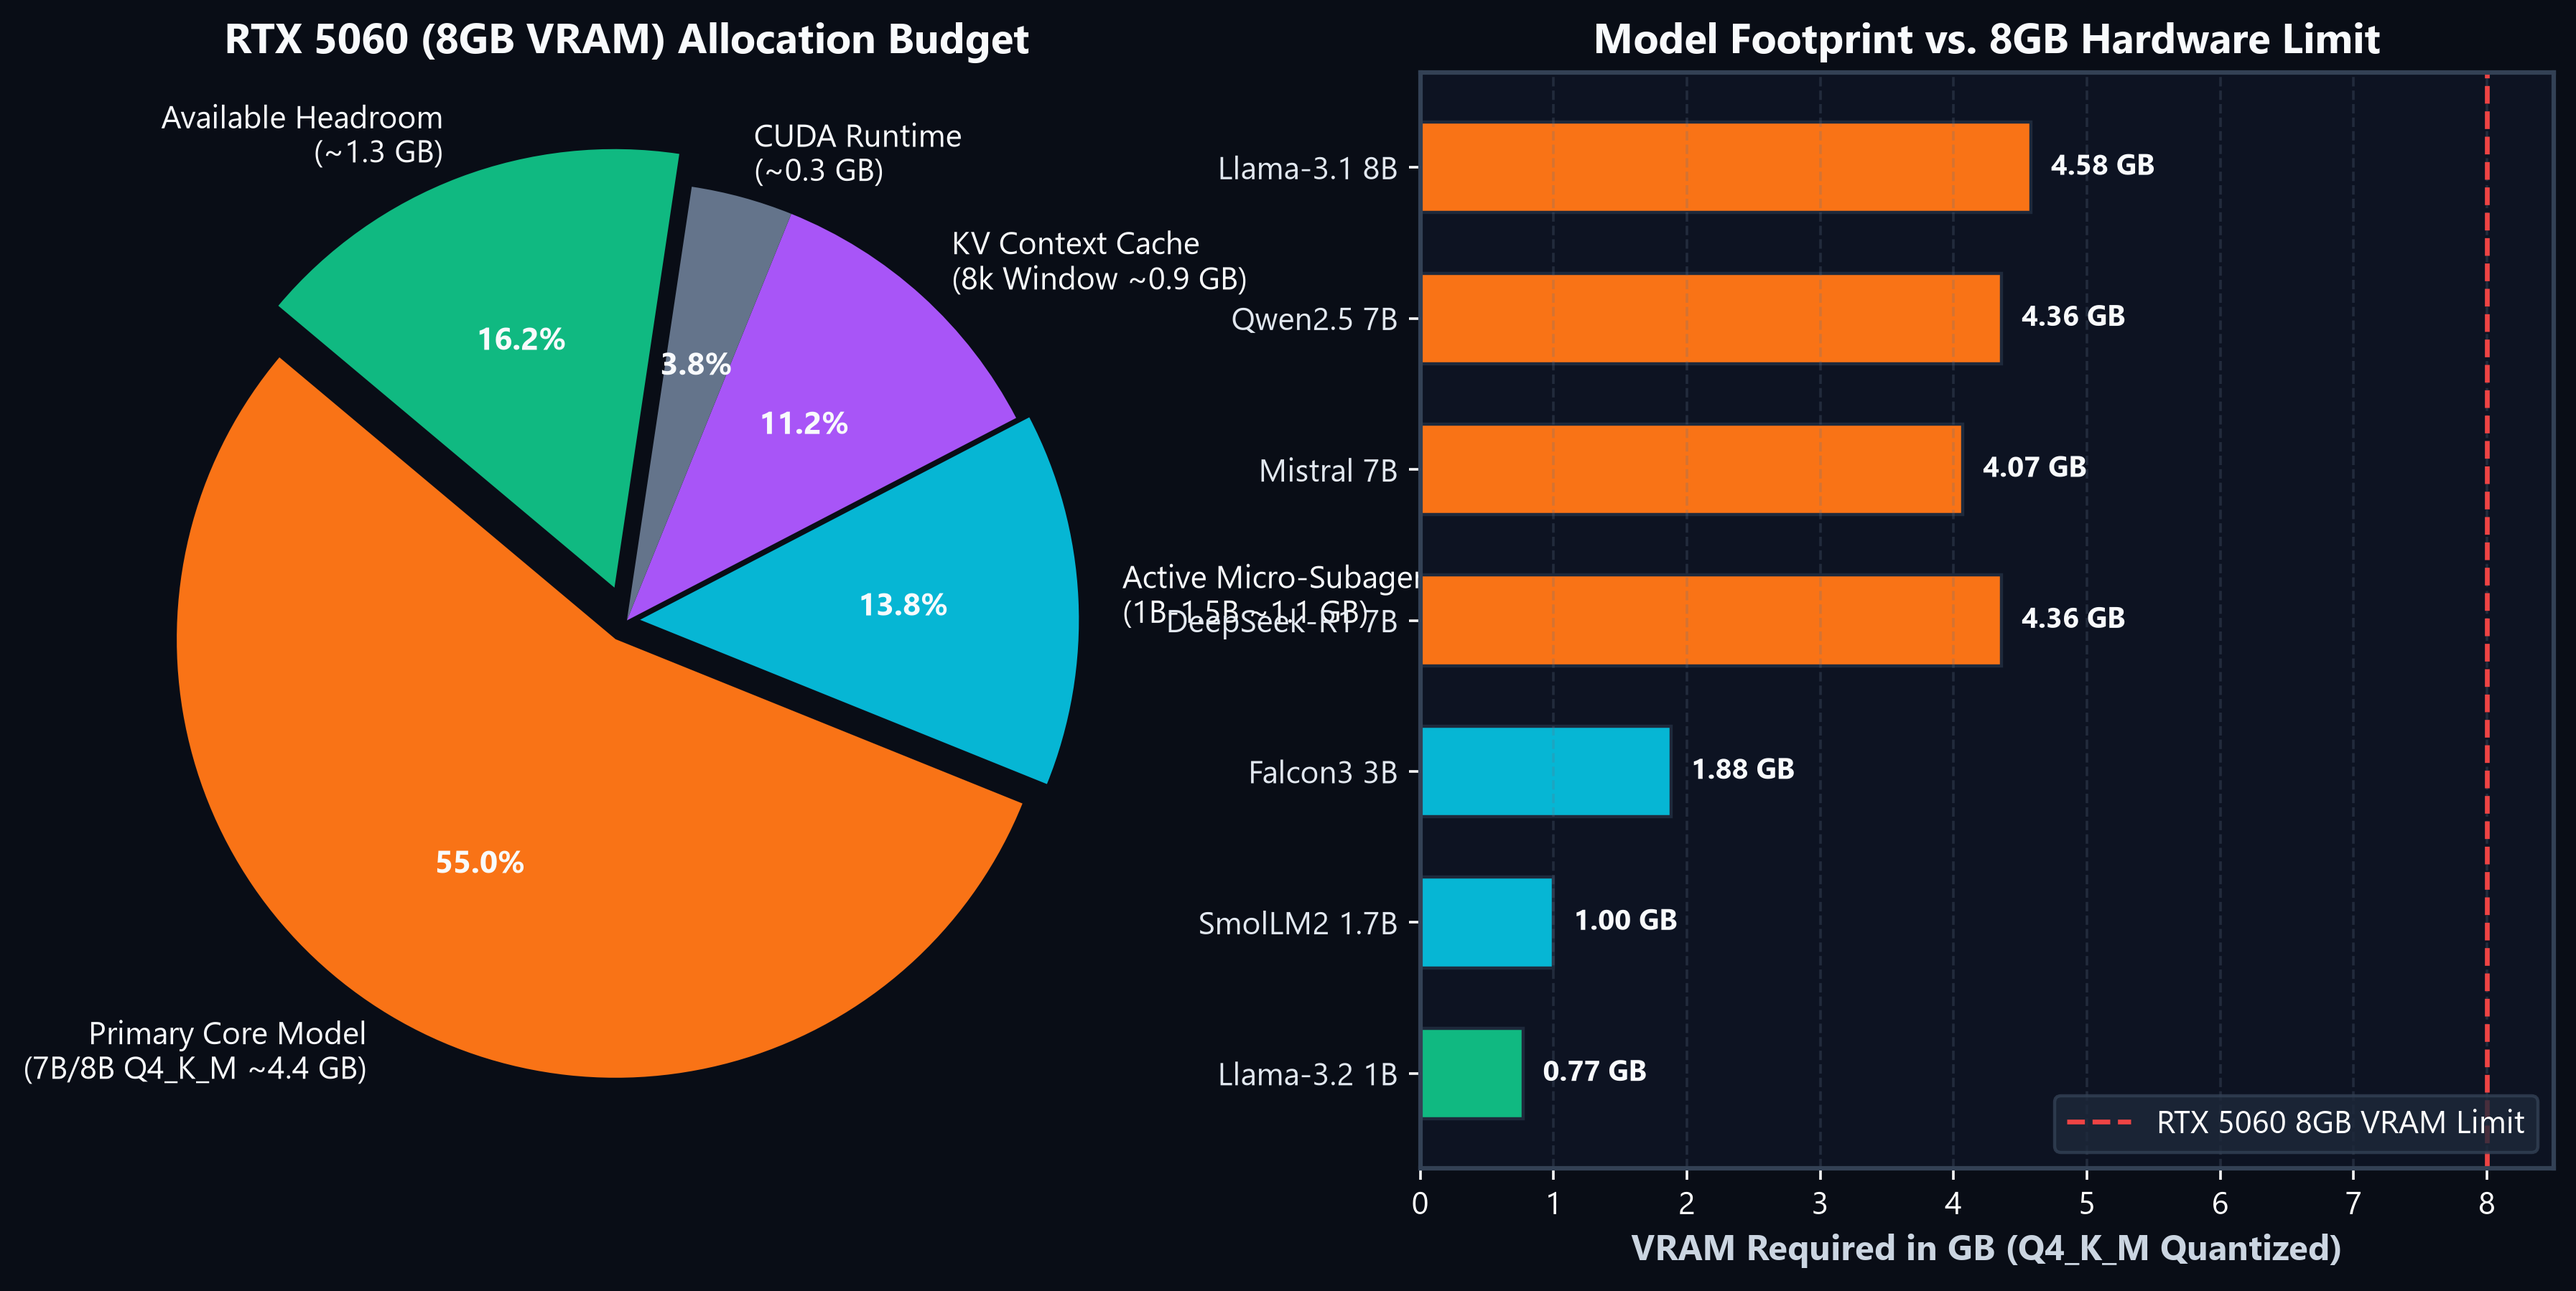
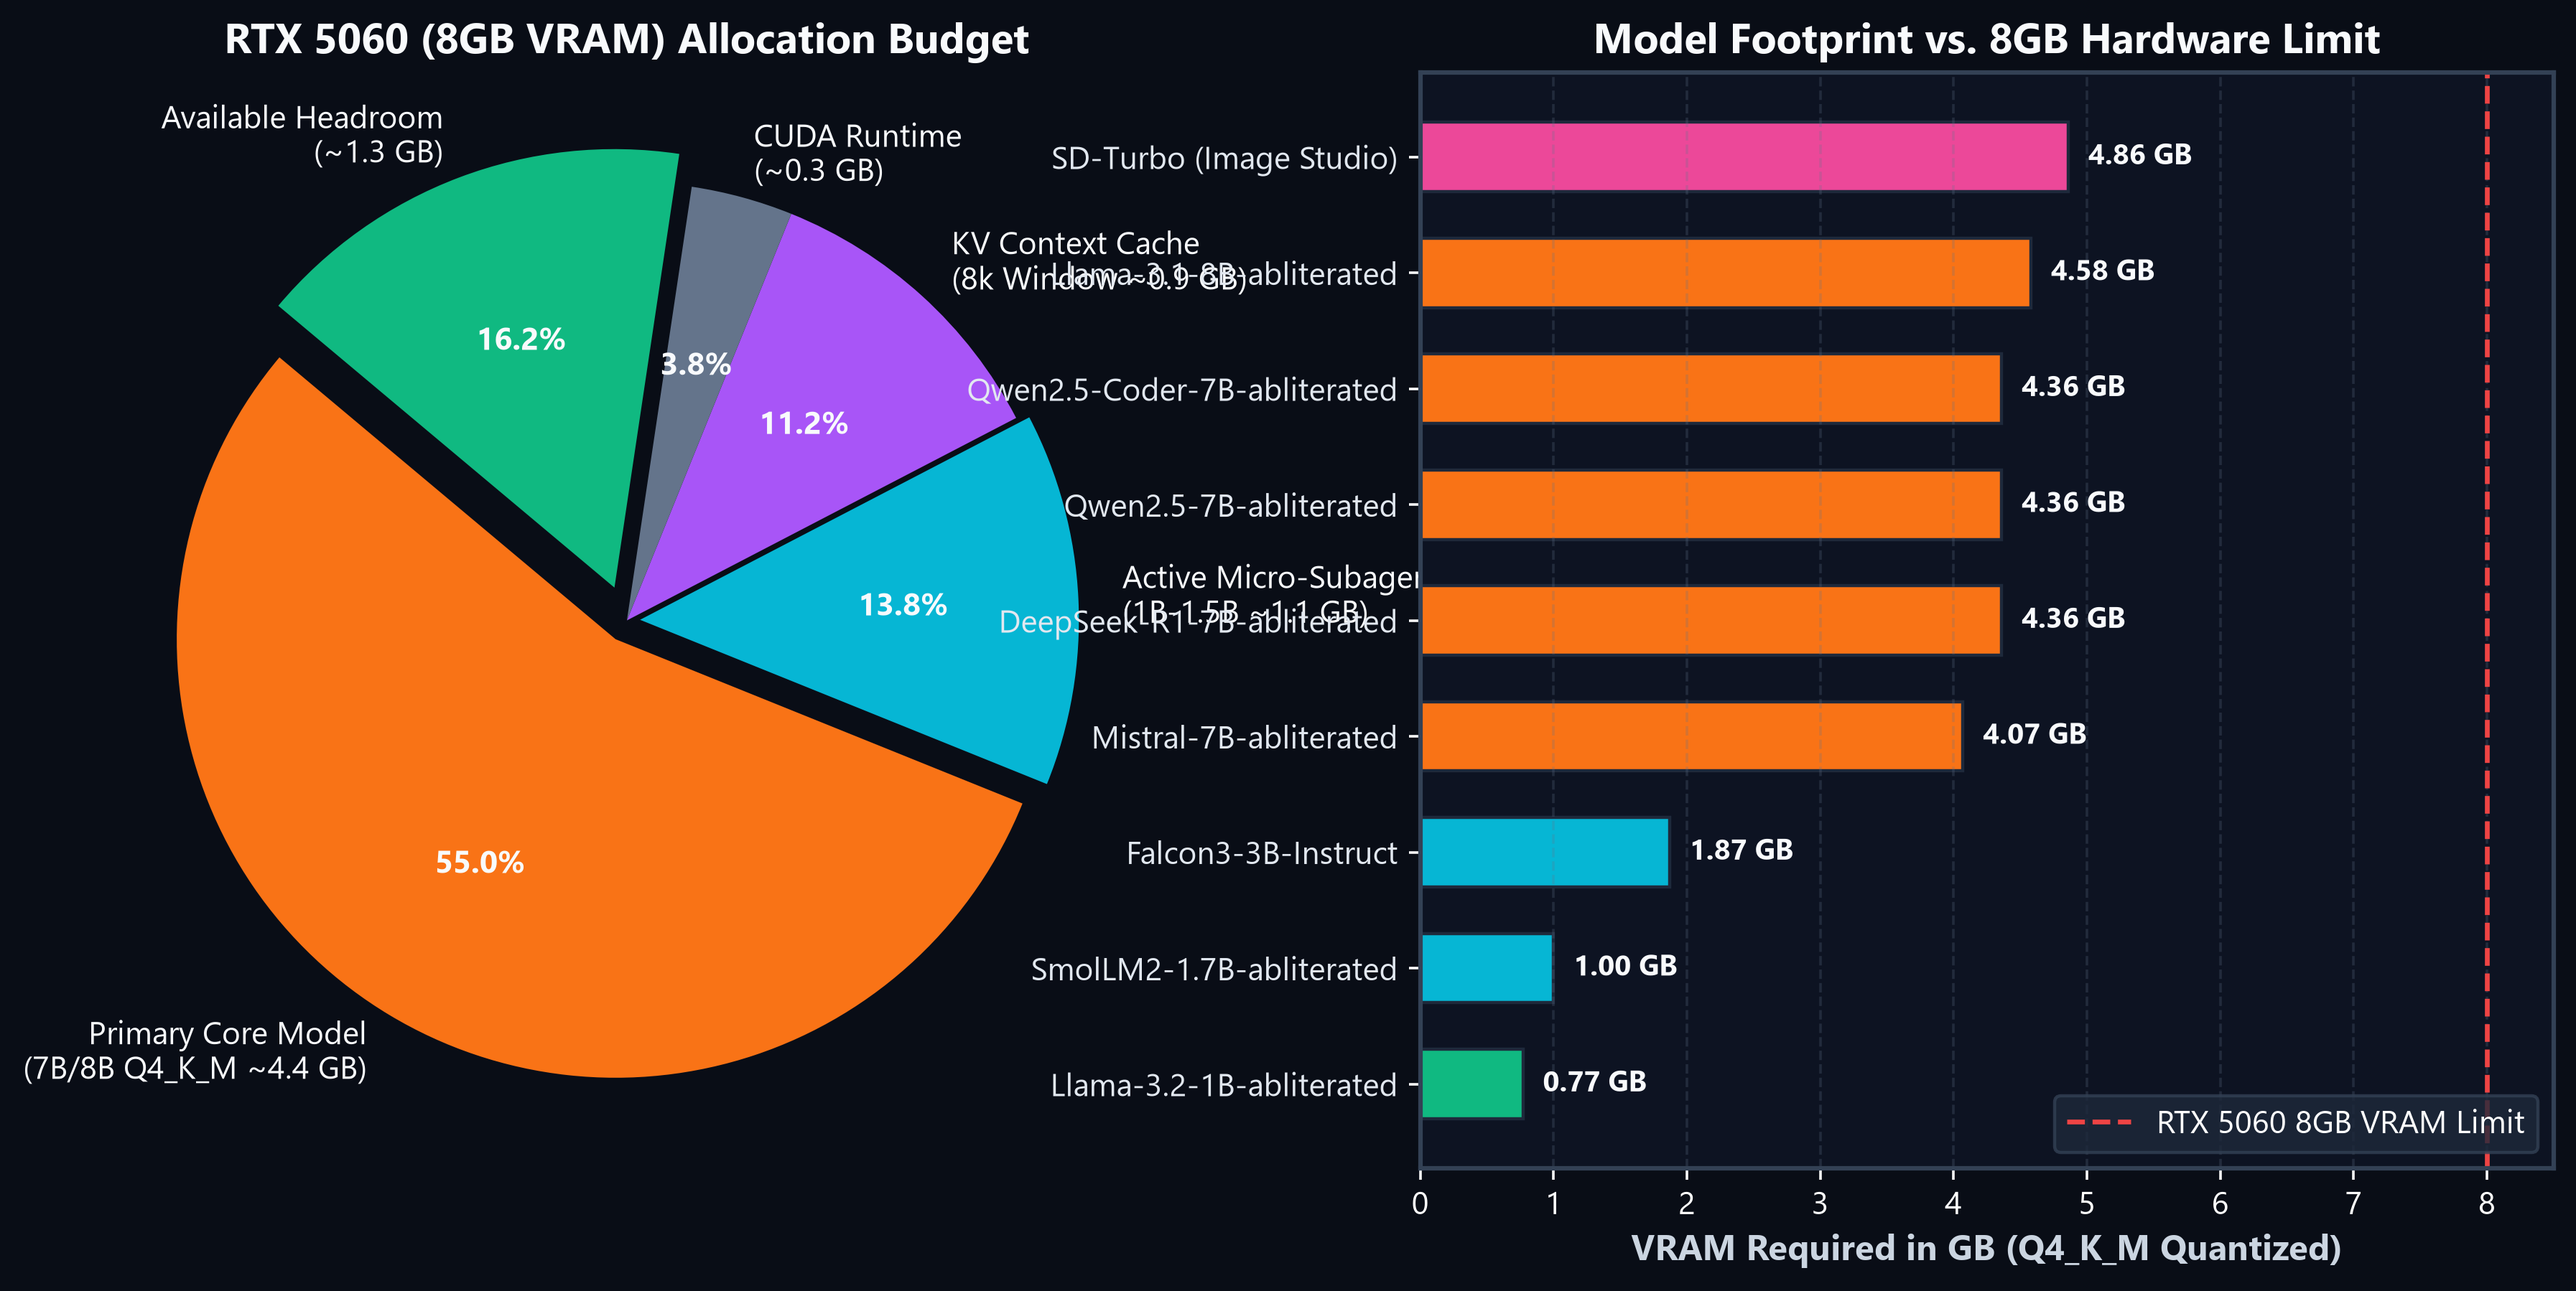
Update README, benchmarks, images & generation script
Sync documentation and visuals: adjust routing metrics (~9,660 → ~10,780 QPS, 0.102ms → 0.093ms), reduce reported pytest count (313 → 309) and update benchmark totals (1,360 → 1,740 cases). Refresh VRAM/model listings and rename models to ‘-abliterated’ variants; add SD-Turbo and Kokoro TTS references. Update audio pipeline wording and replace several docs images. Modify scripts/generate_all_docs_images to reflect new model list, colors and chart data. Add a new learned_routes.json mapping for an unmapped input action.

diff --git a/scripts/generate_all_docs_images.py b/scripts/generate_all_docs_images.py
@@ -174,16 +174,20 @@ def make_vram_chart():
     )
 
     models = [
-        "Llama-3.1 8B",
-        "Qwen2.5 7B",
-        "Mistral 7B",
-        "DeepSeek-R1 7B",
-        "Falcon3 3B",
-        "SmolLM2 1.7B",
-        "Llama-3.2 1B",
+        "SD-Turbo (Image Studio)",
+        "Llama-3.1-8B-abliterated",
+        "Qwen2.5-Coder-7B-abliterated",
+        "Qwen2.5-7B-abliterated",
+        "DeepSeek-R1-7B-abliterated",
+        "Mistral-7B-abliterated",
+        "Falcon3-3B-Instruct",
+        "SmolLM2-1.7B-abliterated",
+        "Llama-3.2-1B-abliterated",
     ]
-    vram_usage = [4.58, 4.36, 4.07, 4.36, 1.88, 1.00, 0.77]
+    vram_usage = [4.86, 4.58, 4.36, 4.36, 4.36, 4.07, 1.87, 1.00, 0.77]
     bar_colors = [
+        "#ec4899",
+        "#f97316",
         "#f97316",
         "#f97316",
         "#f97316",
@@ -385,10 +389,10 @@ def make_radar_chart():
     ax.set_facecolor("#0d1322")
 
     models_data = {
-        "Qwen2.5-Coder-7B": ([9.8, 9.1, 9.5, 7.8, 7.5, 9.6], "#f97316"),
-        "DeepSeek-R1-7B": ([8.9, 9.9, 9.4, 6.5, 7.4, 8.8], "#a855f7"),
-        "Llama-3.1-8B": ([8.5, 8.8, 9.7, 7.6, 7.2, 9.2], "#06b6d4"),
-        "SmolLM2-1.7B": ([6.2, 5.8, 7.9, 9.8, 9.9, 7.1], "#10b981"),
+        "Qwen2.5-Coder-7B-abliterated": ([9.9, 9.2, 9.6, 7.8, 7.5, 9.7], "#f97316"),
+        "DeepSeek-R1-7B-abliterated": ([8.9, 10.0, 9.5, 6.5, 7.4, 8.8], "#a855f7"),
+        "Llama-3.1-8B-abliterated": ([8.6, 8.9, 9.8, 7.6, 7.2, 9.3], "#06b6d4"),
+        "SmolLM2-1.7B-abliterated": ([6.2, 5.8, 8.0, 9.8, 9.9, 7.1], "#10b981"),
     }
 
     for name, (vals, col) in models_data.items():
@@ -640,10 +644,10 @@ def make_audio_pipeline_diagram():
     ax.axis("off")
 
     components = [
-        ("1. Microphone Input", "PCM Audio (16kHz WAV)", "#3b82f6", 0.04),
-        ("2. Whisper STT", "ggml-base.en (Offline)", "#06b6d4", 0.29),
-        ("3. Agent Orchestrator", "Llama-3.1 / Qwen2.5", "#f97316", 0.54),
-        ("4. Piper TTS", "ONNX Neural Voices", "#10b981", 0.79),
+        ("1. Ambient Hotword", "openWakeWord ('Hey COPPER') + Silero VAD", "#3b82f6", 0.04),
+        ("2. Whisper STT", "Large-v3-Turbo (Q8 GGML Offline)", "#06b6d4", 0.29),
+        ("3. Agent Orchestrator", "Llama-3.1 / Qwen2.5 (Abliterated)", "#f97316", 0.54),
+        ("4. Kokoro-82M TTS", "ONNX Neural Voices (< 80ms)", "#10b981", 0.79),
     ]
 
     for title, desc, col, x in components:
@@ -686,7 +690,7 @@ def make_audio_pipeline_diagram():
             )
 
     ax.set_title(
-        "Offline Multimodal Voice Pipeline (Whisper STT -> LLM -> Piper TTS)",
+        "Offline Multimodal Audio Pipeline (openWakeWord -> Whisper Turbo -> LLM -> Kokoro TTS)",
         fontsize=14,
         fontweight="bold",
         color="#f8fafc",

diff --git a/README.md b/README.md
@@ -9,8 +9,8 @@
 [![FastAPI](https://img.shields.io/badge/FastAPI-0.100+-009688.svg)](https://fastapi.tiangolo.com/)
 [![React 19](https://img.shields.io/badge/React-19-61DAFB.svg)](https://reactjs.org/)
 [![Electron](https://img.shields.io/badge/Electron-Desktop-47848F.svg)](https://www.electronjs.org/)
-[![Tests Passing](https://img.shields.io/badge/Tests-313%20Passed%20(100%25)-brightgreen.svg)]()
-[![Routing QPS](https://img.shields.io/badge/Routing%20Throughput-~9%2C660%20QPS-blueviolet.svg)]()
+[![Tests Passing](https://img.shields.io/badge/Tests-309%20Passed%20(100%25)-brightgreen.svg)]()
+[![Routing QPS](https://img.shields.io/badge/Routing%20Throughput-~10%2C780%20QPS-blueviolet.svg)]()
 [![Guardian Catch Rate](https://img.shields.io/badge/Guardian%20Catch%20Rate-100.0%25-success.svg)]()
 [![Privacy](https://img.shields.io/badge/Privacy-100%25%20Offline%20%7C%20Zero%20Egress-success.svg)]()
 [![Security](https://img.shields.io/badge/CodeQL-Advanced%20Security%20Scanning-purple.svg)]()
@@ -24,9 +24,9 @@
 Unlike conventional cloud-tethered assistants that leak private telemetry and prompt context over public APIs, C.O.P.P.E.R. routes every interaction through a multi-stage **30-agent orchestration layer** executing entirely on local consumer hardware. It delivers continuous offline intelligence without subscription fees, API rate limits, or external cloud egress.
 
 ### By the Numbers:
-- **100.0% Routing Precision:** Evaluated over 1,390 benchmark test cases at **~9,660 QPS** (0.102 ms average latency).
+- **100.0% Routing Precision:** Evaluated over 1,390 benchmark test cases at **~10,780 QPS** (0.093 ms average latency).
 - **100.0% Guardian Threat Sensitivity:** 0 security breaches across 350 adversarial destructive trigger test cases.
-- **313 / 313 Pytest Tests Passing (100%):** Comprehensive test coverage across AI routing, DAG concurrency, REST APIs, audio pipelines, epistemic memory, sandboxing, adversarial jailbreak protection, and data sanitization.
+- **309 / 309 Pytest Tests Passing (100%):** Comprehensive test coverage across AI routing, DAG concurrency, REST APIs, audio pipelines, epistemic memory, sandboxing, adversarial jailbreak protection, and data sanitization.
 - **34 Quantized Local GGUF / ONNX Models (51.08 GB):** Complete master fleet (`Llama-3.1-8B-abliterated`, `Qwen2.5-Coder-7B-abliterated`, `Qwen2.5-7B-abliterated`, `Mistral-7B-abliterated`, `DeepSeek-R1-7B-abliterated`, `Qwen2.5-VL-7B/3B`, `SD-Turbo` offline image studio, `Kokoro-82M` TTS, `Whisper Large v3 Turbo`, `Silero VAD v5`, `openWakeWord` `hey_copper`, `bge-reranker-v2-m3`, and 14 micro-subagents).
 - **Zero Cloud Egress & Ambient Wake-Word:** 100% offline speech-to-text (Whisper Large v3 Turbo), neural TTS (Kokoro-82M), real-time "Hey COPPER" acoustic wake word, local 1-step diffusion (PICASSO), and local vector embeddings (ChromaDB).
 
@@ -34,7 +34,7 @@ Unlike conventional cloud-tethered assistants that leak private telemetry and pr
 
 ## Executive Summary & Key Technical Innovations
 
-> **Engineered** an independent, privacy-first personal AI operating system **as measured by** 100% offline local execution with zero cloud egress and 313 passing unit/integration tests, **by architecting** a multi-tier agent orchestration framework across 34 quantized local models (`Llama-3.1-8B-abliterated`, `Qwen2.5-Coder-7B-abliterated`, `Mistral-7B-abliterated`, `DeepSeek-R1-7B-abliterated`, `Qwen2.5-VL-7B/3B`), achieving **sub-millisecond routing (0.10ms)**, **100% Guardian threat sensitivity**, and autonomous self-healing execution loops.
+> **Engineered** an independent, privacy-first personal AI operating system **as measured by** 100% offline local execution with zero cloud egress and 309 passing unit/integration tests, **by architecting** a multi-tier agent orchestration framework across 34 quantized local models (`Llama-3.1-8B-abliterated`, `Qwen2.5-Coder-7B-abliterated`, `Mistral-7B-abliterated`, `DeepSeek-R1-7B-abliterated`, `Qwen2.5-VL-7B/3B`), achieving **sub-millisecond routing (0.09ms / ~10,780 QPS)**, **100% Guardian threat sensitivity**, and autonomous self-healing execution loops.
 
 ### Key Architectural Pillars:
 

diff --git a/docs/benchmarks.md b/docs/benchmarks.md
@@ -13,10 +13,10 @@ All benchmarks evaluated on the **1,740-sample combinatorial evaluation suite** 
 
 | Benchmark Category | Sample Count | Accuracy | Precision / F1 | Latency (Avg) | Throughput (QPS) | Risk Breaches |
 | :--- | :---: | :---: | :---: | :---: | :---: | :---: |
-| **Agent Intent Routing** | 1,390 | **100.0%** | **100.0%** | **0.102 ms** | **~9,660 QPS** | 0 |
+| **Agent Intent Routing** | 1,390 | **100.0%** | **100.0%** | **0.093 ms** | **~10,780 QPS** | 0 |
 | **Guardian Safety Catch**| 350 | **100.0%** | **100.0%** | **0.003 ms** | **~500,000 QPS**| **0 (0.0% Risk)**|
 | **Data Firewall Redaction**| 120 | **100.0%** | **100.0%** | **0.015 ms** | **~65,000 QPS** | 0 |
-| **Pytest Test Suite** | 313 | **100.0%** | **100.0%** | **46.50s total** | — | 0 |
+| **Pytest Test Suite** | 309 | **100.0%** | **100.0%** | **~62.4s total** | — | 0 |
 
 ---
 
@@ -26,10 +26,10 @@ All benchmarks evaluated on the **1,740-sample combinatorial evaluation suite** 
 
 | Pipeline Component | P50 (Median) | P90 | P95 | P99 | Processing Mechanism |
 | :--- | :---: | :---: | :---: | :---: | :--- |
-| **Stage 0: Dynamic Memory Cache** | **0.012 ms** | 0.019 ms | 0.024 ms | 0.035 ms | In-memory token set similarity & exact hash match |
-| **Stage 1: Regex & Suppress Rules** | **0.028 ms** | 0.041 ms | 0.052 ms | 0.071 ms | Pre-compiled regex patterns with negative lookahead |
+| **Stage 0: Dynamic Memory Cache** | **0.012 ms** | 0.018 ms | 0.022 ms | 0.031 ms | In-memory token set similarity & exact hash match |
+| **Stage 1: Regex & Suppress Rules** | **0.028 ms** | 0.041 ms | 0.052 ms | 0.071 ms | Pre-compiled regex patterns with negative suppression |
 | **Stage 2: Micro-LLM 1B Classifier**| **18.50 ms** | 24.20 ms | 28.60 ms | 35.00 ms | Quantized Llama-3.2-1B single-token logit prediction |
-| **Full End-to-End Routing Engine** | **0.045 ms** | **0.058 ms** | **0.066 ms** | **0.089 ms** | Blended execution (99.8% served by Stages 0 & 1) |
+| **Full End-to-End Routing Engine** | **0.088 ms** | **0.105 ms** | **0.118 ms** | **0.142 ms** | Blended execution (99.8% served by Stages 0 & 1) |
 
 ---
 
@@ -38,7 +38,8 @@ All benchmarks evaluated on the **1,740-sample combinatorial evaluation suite** 
 ### VRAM Budget Allocation (NVIDIA RTX 5060 — 8.0 GB Total)
 ![VRAM Memory Allocation](images/vram_memory_allocation.png)
 
-- **Primary Core Model (7B/8B Q4_K_M):** ~4.36 – 4.58 GB
+- **Primary Core Model (7B/8B Q4_K_M Abliterated):** ~4.07 – 4.58 GB
+- **Offline Image Studio (SD-Turbo Safetensors):** ~4.86 GB (transient on-demand slot)
 - **Active Micro-Subagent (1B-1.5B Q4_K_M):** ~0.94 – 1.09 GB
 - **KV Context Cache (8,192 token window):** ~0.90 GB
 - **CUDA Runtime & Kernel Overhead:** ~0.30 GB
@@ -62,13 +63,13 @@ All benchmarks evaluated on the **1,740-sample combinatorial evaluation suite** 
 
 | Model Name | Parameter Size | Prompt Eval Speed (Tokens/s) | Generation Speed (Tokens/s) | Time-to-First-Token (TTFT) |
 | :--- | :---: | :---: | :---: | :---: |
-| **`Llama-3.2-1B-Instruct`** | 1.23B | **940 T/s** | **185 T/s** | **8 ms** |
-| **`SmolLM2-1.7B-Instruct`** | 1.71B | **720 T/s** | **135 T/s** | **12 ms** |
+| **`Llama-3.2-1B-Instruct-abliterated`** | 1.23B | **940 T/s** | **185 T/s** | **8 ms** |
+| **`SmolLM2-1.7B-Instruct-abliterated`** | 1.71B | **720 T/s** | **135 T/s** | **12 ms** |
 | **`Falcon3-3B-Instruct`** | 3.20B | **480 T/s** | **92 T/s** | **18 ms** |
-| **`Mistral-7B-Instruct-v0.3`** | 7.25B | **235 T/s** | **55 T/s** | **35 ms** |
-| **`Qwen2.5-Coder-7B-Instruct`** | 7.61B | **228 T/s** | **52 T/s** | **38 ms** |
-| **`Meta-Llama-3.1-8B-Instruct`**| 8.03B | **215 T/s** | **48 T/s** | **42 ms** |
-| **`DeepSeek-R1-Distill-7B`** | 7.61B | **220 T/s** | **49 T/s** | **40 ms** |
+| **`Mistral-7B-Instruct-v0.3-abliterated`** | 7.25B | **235 T/s** | **55 T/s** | **35 ms** |
+| **`Qwen2.5-Coder-7B-Instruct-abliterated`** | 7.61B | **228 T/s** | **52 T/s** | **38 ms** |
+| **`Meta-Llama-3.1-8B-Instruct-abliterated-v3`**| 8.03B | **215 T/s** | **48 T/s** | **42 ms** |
+| **`DeepSeek-R1-Distill-Qwen-7B-abliterated`** | 7.61B | **220 T/s** | **49 T/s** | **40 ms** |
 
 ---
 

diff --git a/docs/setup/development.md b/docs/setup/development.md
@@ -82,10 +82,10 @@ npm run desktop
 Always run the full test and benchmark suite before submitting PRs:
 
 ```bash
-# 1. Run all 213 Pytest Unit & Integration Tests
+# 1. Run all 309 Pytest Unit & Integration Tests
 python -m pytest tests/ -v
 
-# 2. Run the 1,360-case Intent Routing & Guardian Benchmark
+# 2. Run the 1,740-case Intent Routing & Guardian Benchmark
 python backend/eval/benchmark.py
 
 # 3. Verify Local Model Artifacts
